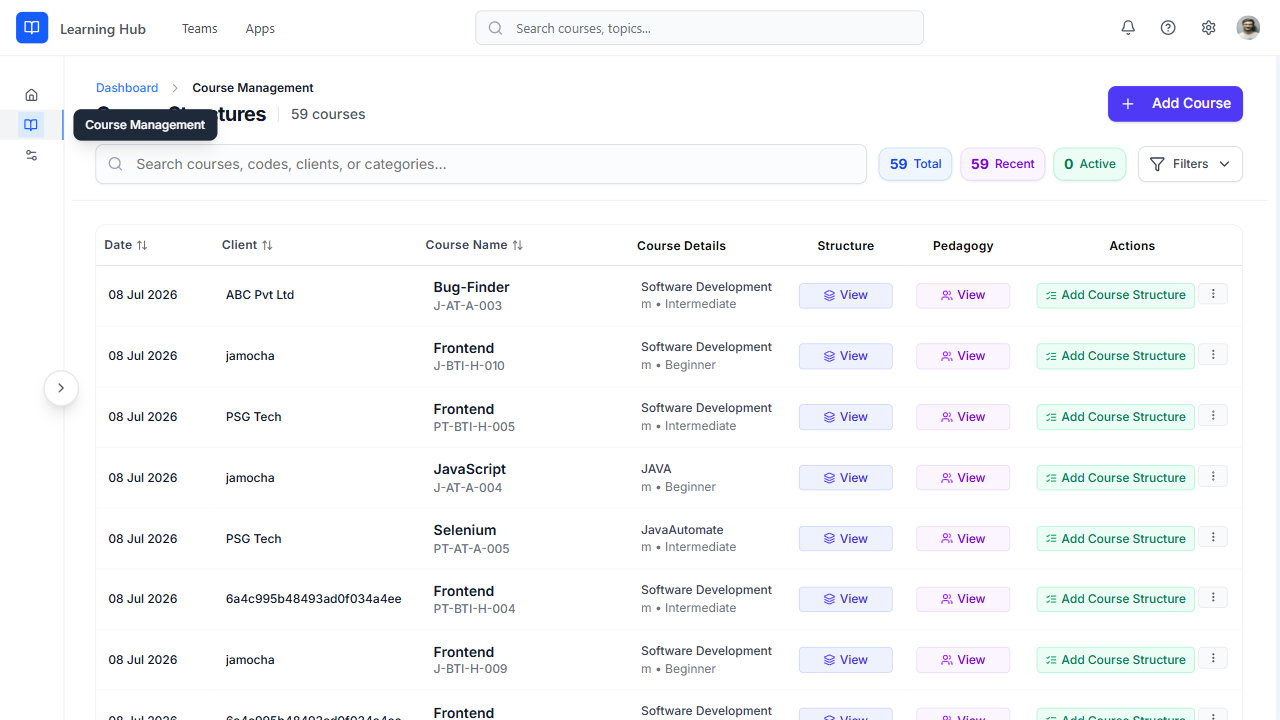
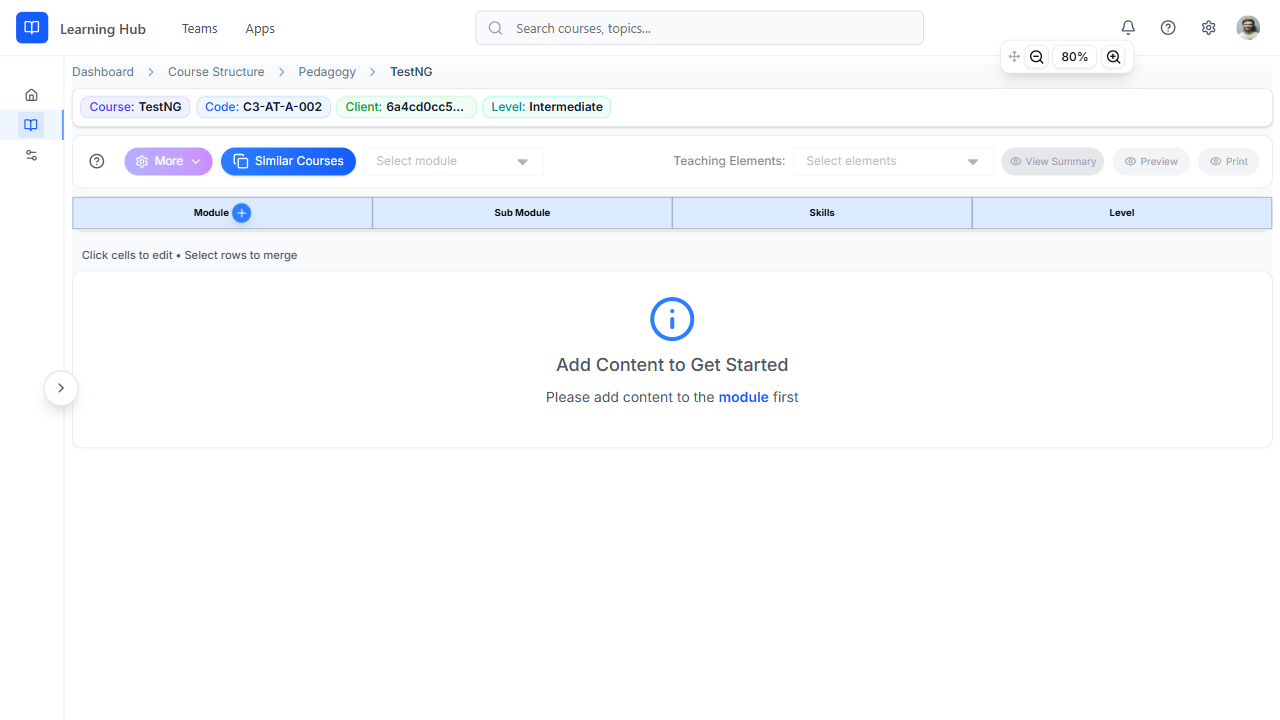
2nd scenario implemented

diff --git a/src/test/Pages/AddCourseStructurePage.ts b/src/test/Pages/AddCourseStructurePage.ts
@@ -18,6 +18,8 @@ export class AddCourseStructurePage extends basepage {
     readonly subModuleText: Locator;
     readonly ActionSettings: Locator;
     readonly hierarchy: Locator;
+    readonly SubmoduleThreeDot:Locator
+    readonly SubmoduleADD:Locator
 
     constructor(page: Page) {
         super(page);
@@ -37,6 +39,11 @@ export class AddCourseStructurePage extends basepage {
         this.subModuleText = page.locator("(//span[@class='flex-[0.8] text-center px-2 break-words whitespace-normal overflow-hidden text-ellipsis'])[2]");
         this.ActionSettings = page.locator("//span[text()='More']");
         this.hierarchy = page.locator("(//div[@class='relative']/div)[1]");
+
+        this.SubmoduleThreeDot = page.locator("(//div[@class='flex-[0.2] flex justify-end']//button)[2]")
+        this.SubmoduleADD= page.locator("//span[text()='Add']")
+
+
     }
 
     async clickActionSettings() {
@@ -95,5 +102,16 @@ export class AddCourseStructurePage extends basepage {
 
     async clickHierarchy() {
         await this.click(this.hierarchy);
+    }
+
+    async clickSubmoduleThreeDot(){
+        await this.page.mouse.click(5, 5);
+        await this.page.waitForTimeout(300);
+        await this.SubmoduleThreeDot.waitFor({ state: "visible" });
+        await this.AddSubmodule.scrollIntoViewIfNeeded();
+        await this.click(this.SubmoduleThreeDot)
+    }
+    async clickSubModuelAdd(){
+        await this.click(this.SubmoduleADD)
     }
 }

diff --git a/src/test/StepDefinitions/SubmoduleStep.ts b/src/test/StepDefinitions/SubmoduleStep.ts
@@ -1,8 +1,9 @@
-import { Given,When,Then } from "@cucumber/cucumber";
+import { Given,When,Then, setDefaultTimeout } from "@cucumber/cucumber";
 import { CustomWorld } from "../World/CustomWorld";
 import { expect } from "@playwright/test";
 import loginData from "../testData/LoginData.json";
 const validUser = loginData.validUser;
+
 Given('user launch the application of lms-smartcliff', async function (this:CustomWorld) {
  await this.loginPage.launchApplication(process.env.BASEURL!);
 });
@@ -51,13 +52,23 @@ When('the user enter the Description of {string}', async function (this:CustomWo
 
 When('the user click the skill', async function (this:CustomWorld) {
     await this.addCourseStructure.clickSubmoduleCheckbox()
+    await this.page.waitForTimeout(3000)
 });
 
 When('the user click Add submodule button', async function (this:CustomWorld) {
     await this.addCourseStructure.addsubmodule_btn()
+    await this.page.waitForTimeout(5000)
     
 });
 
 Then('the user should see the title in submodule', async function (this:CustomWorld) {
      //expect(this.addCourseStructure.Textsubmodule()).to('HTML')
+});
+
+When('the user click the threeDot_btn', async function (this:CustomWorld) {
+    await this.addCourseStructure.clickSubmoduleThreeDot()
+});
+
+When('the user click the Add btn', async function (this:CustomWorld) {
+    await this.addCourseStructure.clickSubModuelAdd()
 });

diff --git a/src/test/Hooks/hooks.ts b/src/test/Hooks/hooks.ts
@@ -15,7 +15,7 @@ import { LoginPage } from "../Pages/LoginPage";
 import { TopicPage } from "../Pages/CourseTopicPage";
 import { CourseManagePage } from '../Pages/CourseManagePage';
 import { DashboardPage } from '../Pages/DashboardPage';
-setDefaultTimeout(60000);
+setDefaultTimeout(120 * 1000);
 let browser: Browser;
 BeforeAll(async () => {
     getEnv();
@@ -27,6 +27,7 @@ Before(async function (this: CustomWorld) {
     this.browser = browser;
     this.context = await browser.newContext();
     this.page = await this.context.newPage();
+    this.page.setDefaultTimeout(70000);
     this.addCourseStructure= new AddCourseStructurePage(this.page)
     this.coursemanagepage= new CourseManagePage(this.page)
     this.loginPage = new LoginPage(this.page);